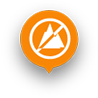
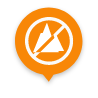
aliplayer\icon修改，资源图层新增

Changed region(s): [[0.1531, 0.0612, 0.8571, 0.8571]]

diff --git a/src/config/server/medicalTreeOption.js b/src/config/server/medicalTreeOption.js
@@ -1,13 +1,12 @@
 /*
  * @Author: eds
  * @Date: 2020-07-29 16:10:06
- * @LastEditTime: 2020-09-02 18:37:46
+ * @LastEditTime: 2020-09-03 11:29:22
  * @LastEditors: eds
  * @Description:
  * @FilePath: \wz-city-culture-tour\src\config\server\medicalTreeOption.js
  */
 const SERVER_HOST = "https://ditu.wzcitybrain.com/iserver/services";
-const SERVER_SUFFIX = "/restjsr/v1/vectortile/maps";
 const SW_DATA = "/data-SW_DATA/rest/data";
 const SW_DATA_NAME = "172.20.83.196_swdata:";
 const SERVER_DEFAULT_DATA = SERVER_HOST + SW_DATA;
@@ -15,129 +14,64 @@ const SERVER_DEFAULT_DATA = SERVER_HOST + SW_DATA;
 const MEDICAL_TOPIC = [
   {
     label: "医疗场所",
-    url: SERVER_DEFAULT_DATA,
-    icon: "救护场所",
     icon_size: "large",
     dataset: "JZJZNL_YLJH_JHCS"
   }
 ];
 
 const TOUR_TOPIC = [
-  {
-    label: "精品农家乐",
-    url: SERVER_DEFAULT_DATA,
-    icon: "精品农家乐",
-    dataset: "温州农家乐"
-  },
-  {
-    label: "旅游景点",
-    url: SERVER_DEFAULT_DATA,
-    icon: "旅游景点",
-    dataset: "永嘉旅游景点地图"
-  },
-  {
-    label: "温州民宿",
-    url: SERVER_DEFAULT_DATA,
-    icon: "温州民宿",
-    dataset: "温州民宿"
-  },
-  {
-    label: "百姓健身房",
-    url: SERVER_DEFAULT_DATA,
-    icon: "百姓健身房",
-    dataset: "百姓健身房"
-  },
-  {
-    label: "森林康养基地",
-    url: SERVER_DEFAULT_DATA,
-    icon: "森林康养基地",
-    dataset: "温州市森林康养基地"
-  },
-  {
-    label: "夜光经济",
-    url: SERVER_DEFAULT_DATA,
-    icon: "夜光经济",
-    dataset: "夜景"
-  },
-  {
-    label: "公厕",
-    url: SERVER_DEFAULT_DATA,
-    icon: "公厕",
-    icon_size: "large",
-    reduce: true,
-    dataset: "PublicToilet"
-  },
+  { label: "精品农家乐", dataset: "温州农家乐" },
+  { label: "旅游景点", dataset: "永嘉旅游景点地图" },
+  { label: "温州民宿", dataset: "温州民宿" },
+  { label: "百姓健身房", dataset: "百姓健身房" },
+  { label: "森林康养基地", dataset: "温州市森林康养基地" },
+  { label: "夜光经济", dataset: "夜景" },
   {
     label: "精品旅游路线",
-    url: SERVER_DEFAULT_DATA,
-    icon: "精品旅游路线",
     componentEvent: "cesium-3d-event",
     componentKey: "line1"
   }
 ];
+
+// 基础设施
+const BASIC_TOPIC = [
+  {
+    label: "公厕",
+    icon_size: "large",
+    dataset: "PublicToilet"
+  }
+];
 // 文化专题
 const CULTURE_TOPIC = [
-  {
-    label: "爱国义务教育基地",
-    url: SERVER_DEFAULT_DATA,
-    icon: "爱国义务教育基地",
-    dataset: "爱国主义教育基地"
-  },
-  {
-    label: "市区阅读",
-    url: SERVER_DEFAULT_DATA,
-    icon: "市区阅读",
-    dataset: "温州市阅读"
-  },
-  {
-    label: "文化礼堂",
-    url: SERVER_DEFAULT_DATA,
-    icon: "文化礼堂",
-    dataset: "文化礼堂"
-  },
-  {
-    label: "文化生活",
-    url: SERVER_DEFAULT_DATA,
-    icon: "文化生活",
-    dataset: "温州文化生活"
-  }
+  { label: "爱国义务教育基地", dataset: "爱国主义教育基地" },
+  { label: "市区阅读", dataset: "温州市阅读" },
+  { label: "文化礼堂", dataset: "文化礼堂" },
+  { label: "文化生活", dataset: "温州文化生活" }
 ];
 //  应急专题
 const EMERGENCY_TOPIC = [
   {
     label: "非煤矿山",
-    url: SERVER_DEFAULT_DATA,
-    icon: "非煤矿山",
     icon_size: "large",
     dataset: "D_HARAZDS_NONCOALMINE"
   },
   {
     label: "烟花爆竹经营单位",
-    url: SERVER_DEFAULT_DATA,
-    icon: "烟花爆竹经营单位",
     icon_size: "large",
     dataset: "D_HARAZDS_FIREWORKS"
   },
   {
     label: "应急避灾场所",
-    url: SERVER_DEFAULT_DATA,
-    icon: "应急避灾场所",
     icon_size: "large",
-    reduce: true,
     dataset: "JZJZNL_BZAZCS"
   },
   {
     label: "应急队伍",
-    url: SERVER_DEFAULT_DATA,
-    icon: "应急队伍",
     icon_size: "large",
-    reduce: true,
     dataset: "JZJZNL_YJDW"
   },
   {
     label: "加油站",
-    url: SERVER_DEFAULT_DATA,
-    icon: "加油站",
     icon_size: "large",
     dataset: "D_HAZARDS_GasStation"
   }
@@ -147,17 +81,53 @@ const EMERGENCY_TOPIC = [
 const SOURCE_TOPIC = [
   {
     label: "农贸市场面",
-    url: SERVER_DEFAULT_DATA,
-    icon: "农贸市场面",
     polygon: true,
     dataset: "FarmersMarket_SiQu_M"
   },
   {
     label: "农贸市场点",
-    url: SERVER_DEFAULT_DATA,
-    icon: "农贸市场点",
     icon_size: "large",
     dataset: "FarmersMarket_SiQu_P"
+  },
+  {
+    label: "市场商场",
+    icon_size: "large",
+    dataset: "market_mall"
+  },
+  {
+    label: "学校",
+    icon_size: "large",
+    dataset: "school"
+  },
+  {
+    label: "社会福利机构",
+    icon_size: "large",
+    dataset: "D_HAZARDS_BEADHOUSESHP"
+  },
+  {
+    label: "高层建筑",
+    icon_size: "large",
+    dataset: "high_buildings_P"
+  },
+  {
+    label: "娱乐场所",
+    icon_size: "large",
+    dataset: "entertainment_place"
+  },
+  {
+    label: "文化场所",
+    icon_size: "large",
+    dataset: "D_HAZARDS_CULTURALPLACE"
+  },
+  {
+    label: "体育运动场馆",
+    icon_size: "large",
+    dataset: "sports_gymnasium"
+  },
+  {
+    label: "客运单位",
+    icon_size: "large",
+    dataset: "passenger_trans_unit"
   }
 ];
 
@@ -194,6 +164,8 @@ export const CESIUM_TREE_OPTION = [
       return {
         ...v,
         id: v.label,
+        icon: v.label,
+        url: SERVER_DEFAULT_DATA,
         type: "mvt",
         newdataset: `${SW_DATA_NAME}${v.dataset}`
       };
@@ -206,6 +178,8 @@ export const CESIUM_TREE_OPTION = [
       return {
         ...v,
         id: v.label,
+        icon: v.label,
+        url: SERVER_DEFAULT_DATA,
         type: "mvt",
         newdataset: `${SW_DATA_NAME}${v.dataset}`
       };
@@ -218,6 +192,8 @@ export const CESIUM_TREE_OPTION = [
       return {
         ...v,
         id: v.label,
+        icon: v.label,
+        url: SERVER_DEFAULT_DATA,
         type: "mvt",
         newdataset: `${SW_DATA_NAME}${v.dataset}`
       };
@@ -230,6 +206,23 @@ export const CESIUM_TREE_OPTION = [
       return {
         ...v,
         id: v.label,
+        icon: v.label,
+        url: SERVER_DEFAULT_DATA,
+        type: "mvt",
+        newdataset: `${SW_DATA_NAME}${v.dataset}`,
+        detail: true
+      };
+    })
+  },
+  {
+    id: "基础设施专题",
+    label: "基础设施专题",
+    children: BASIC_TOPIC.map(v => {
+      return {
+        ...v,
+        id: v.label,
+        icon: v.label,
+        url: SERVER_DEFAULT_DATA,
         type: "mvt",
         newdataset: `${SW_DATA_NAME}${v.dataset}`,
         detail: true
@@ -243,6 +236,8 @@ export const CESIUM_TREE_OPTION = [
       return {
         ...v,
         id: v.label,
+        icon: v.label,
+        url: SERVER_DEFAULT_DATA,
         type: "mvt",
         newdataset: `${SW_DATA_NAME}${v.dataset}`,
         detail: true

diff --git a/src/components/medical-view/extraModel/RtmpVideo/Flv.vue b/src/components/medical-view/extraModel/RtmpVideo/Flv.vue
@@ -19,18 +19,18 @@ export default {
         rePlay: true,
         playsinline: true,
         preload: true,
-        language: "zh-cn",
-        controlBarVisibility: "hover",
-        useH5Prism: this.mode === "h5",
-        useFlashPrism: this.mode === "flash",
+        skinLayout: false,
+        stashInitialSizeForFlv: 30,
+        trackLog: false,
+        // controlBarVisibility: "hover",
+        // useH5Prism: this.mode === "h5",
+        // useFlashPrism: this.mode === "flash",
+        useH5Prism: true,
       },
       function (player) {
         console.log("播放器创建了。");
       }
     );
-    aliplayer.autoplay = true;
-    const whereYouAt = parseFloat(aliplayer.getCurrentTime()) + 1;
-    const totalTime = parseFloat(aliplayer.getDuration());
   },
   methods: {},
 };

diff --git a/src/components/medical-view/treeTool/TreeTool.vue b/src/components/medical-view/treeTool/TreeTool.vue
@@ -1,7 +1,7 @@
 <!--
  * @Author: eds
  * @Date: 2020-07-07 10:57:45
- * @LastEditTime: 2020-09-02 16:37:53
+ * @LastEditTime: 2020-09-03 11:35:16
  * @LastEditors: eds
  * @Description:
  * @FilePath: \wz-city-culture-tour\src\components\medical-view\treeTool\TreeTool.vue
@@ -320,7 +320,7 @@ export default {
                 billboard: {
                   image: `/static/images/${node.icon}.png`,
                   width: node.icon_size == "large" ? 48 : 32,
-                  height: node.icon_size == "large" ? 52 : 35,
+                  height: node.icon_size == "large" ? 48 : 35,
                 },
               };
 

diff --git a/src/components/medical-view/cesium_map.vue b/src/components/medical-view/cesium_map.vue
@@ -76,6 +76,7 @@ export default {
       this.validate();
     });
     this.eventRegsiter();
+
   },
   methods: {
     ...mapActions("map", ["SetForceBimData"]),
